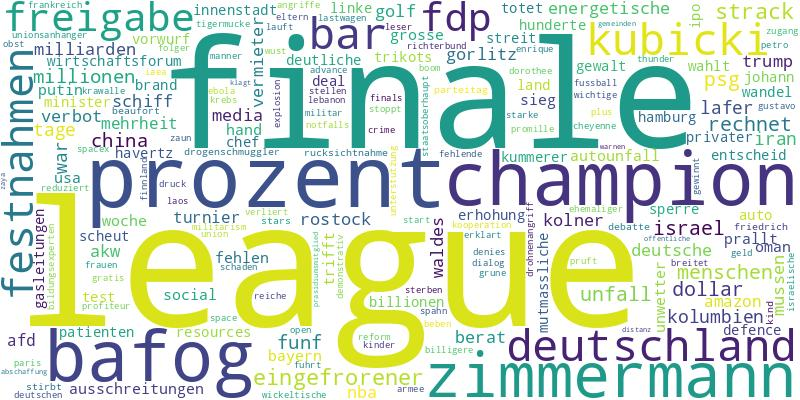
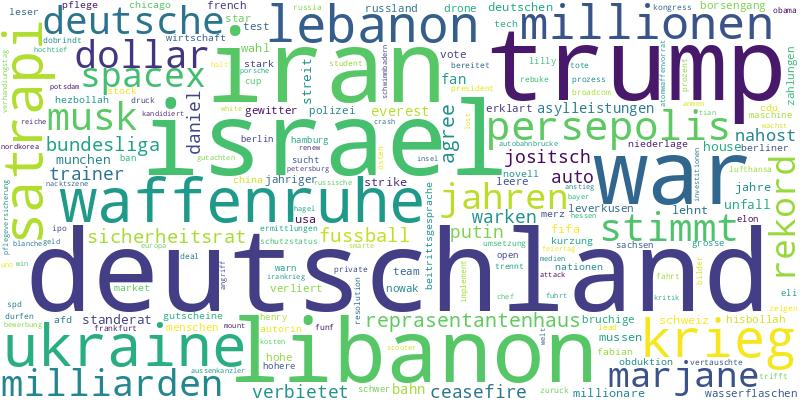
search results now streamed, smaller images, registration now has correct default field

diff --git a/src/rss/html/registration.html b/src/rss/html/registration.html
@@ -1,4 +1,4 @@
-<div id="container" class="card" data-signals="{formId: 'registration'}">
+<div id="container" class="card" data-signals="{formId: 'registration', userid: '', password: '', name: '', email: '', country: '', terms: false, plan: 'starter'}">
     <div>
         <div class="header">
             <div class="form-group header">
@@ -10,7 +10,10 @@
         </div>
 
         <form class="form" data-on:submit__prevent="@post('/submit-registration')">
-            <userid-field data-ignore-morph></userid-field>
+            <userid-field 
+                data-ignore-morph
+                data-init="document.getElementById('userid').focus()" >
+            </userid-field>
             <name-field data-ignore-morph></name-field>
             <email-field data-ignore-morph></email-field>
             <password-field data-ignore-morph></password-field>

diff --git a/src/rss/html/formfields.js b/src/rss/html/formfields.js
@@ -8,7 +8,6 @@ class UserIdField extends HTMLElement {
             </div>
             <input
                 id="userid"
-                data-init="document.getElementById('userid').focus()" 
                 data-bind:userid type="text"
                 data-class="{'input-error': $useridInvalid}"
                 data-on:input__debounce.500ms="@post('/validate-userid')"
@@ -25,7 +24,6 @@ class NameField extends HTMLElement {
             <label for="name">Name</label>
             <input
                 id="name"
-                data-init="document.getElementById('name').focus()" 
                 data-bind:name type="text"
                 required
                 placeholder="Your Name" autofocus />

diff --git a/src/rss/html/about.html b/src/rss/html/about.html
@@ -172,8 +172,8 @@
 
     <div class="container center">
         <a href="html/architecture.jpg">
-            <img width="400" src="html/nimetic.png">
-            <img width="400" src="html/features.png">
+            <img width="400" src="html/nimetic.jpg">
+            <img width="400" src="html/features.jpg">
             <h4 class="fine-print center">Architecture overview</h4>
         </a>
     </div>
